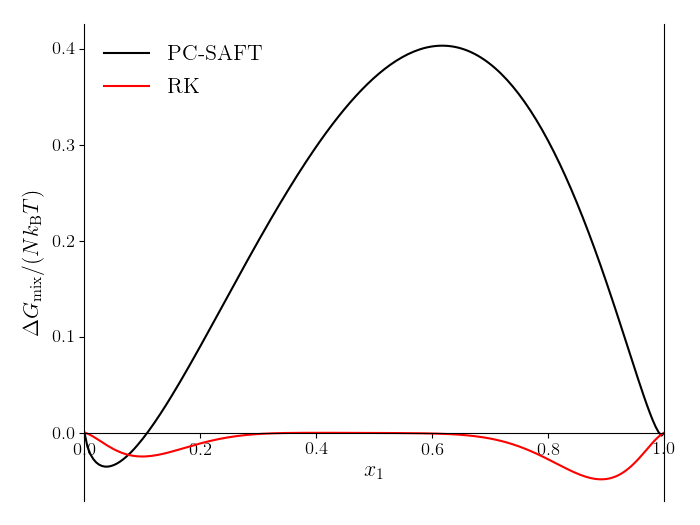
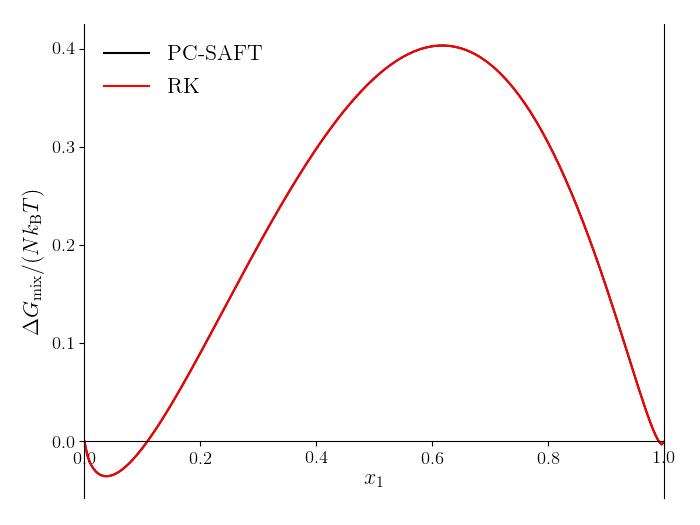
Fixed RK
Found typo in RK module. Has been addressed.

diff --git a/Thermo/Thermo.py b/Thermo/Thermo.py
@@ -1,7 +1,7 @@
 import autograd.numpy as np 
 from autograd import grad
 import copy
-from math import pi
+from math import pi,log
 from scipy.optimize import fsolve, least_squares
 
 class RK(object):
@@ -30,7 +30,7 @@ class RK(object):
 
  def G(self, x):
      P = self.P
-     return self.taylorapprox_logonlyFH(1,1,0,x)*x*(1-x)*sum([P[i]*(2*x-1)**i for i in range(len(P))])
+     return x*log(x)+(1-x)*log(1-x)+x*(1-x)*sum([P[i]*(2*x-1)**(len(P)-i-1) for i in range(len(P))])
 
  def taylorapprox_logonlyFH (self, N_1, N_2, chi, x):  # from Pavan
      combinatorial_1 = x*(2.0*x - 512.0*(x - 0.5)**10.0/5.0 + 512.0*(x - 1.0/2.0)**9.0/9.0 - 32.0*(x - 0.5)**8.0 + 128*(x - 0.5)**7.0/7.0 - 32.0*(x - 0.5)**6.0/3.0 + 32.0*(x - 0.5)**5.0/5.0 - 4.0*(x - 0.5)**4.0 + 8.0*(x - 0.5)**3.0/3.0 - 2.0*(x - 0.5)**2.0 - 1.0 - np.log(2.0)) / N_1
